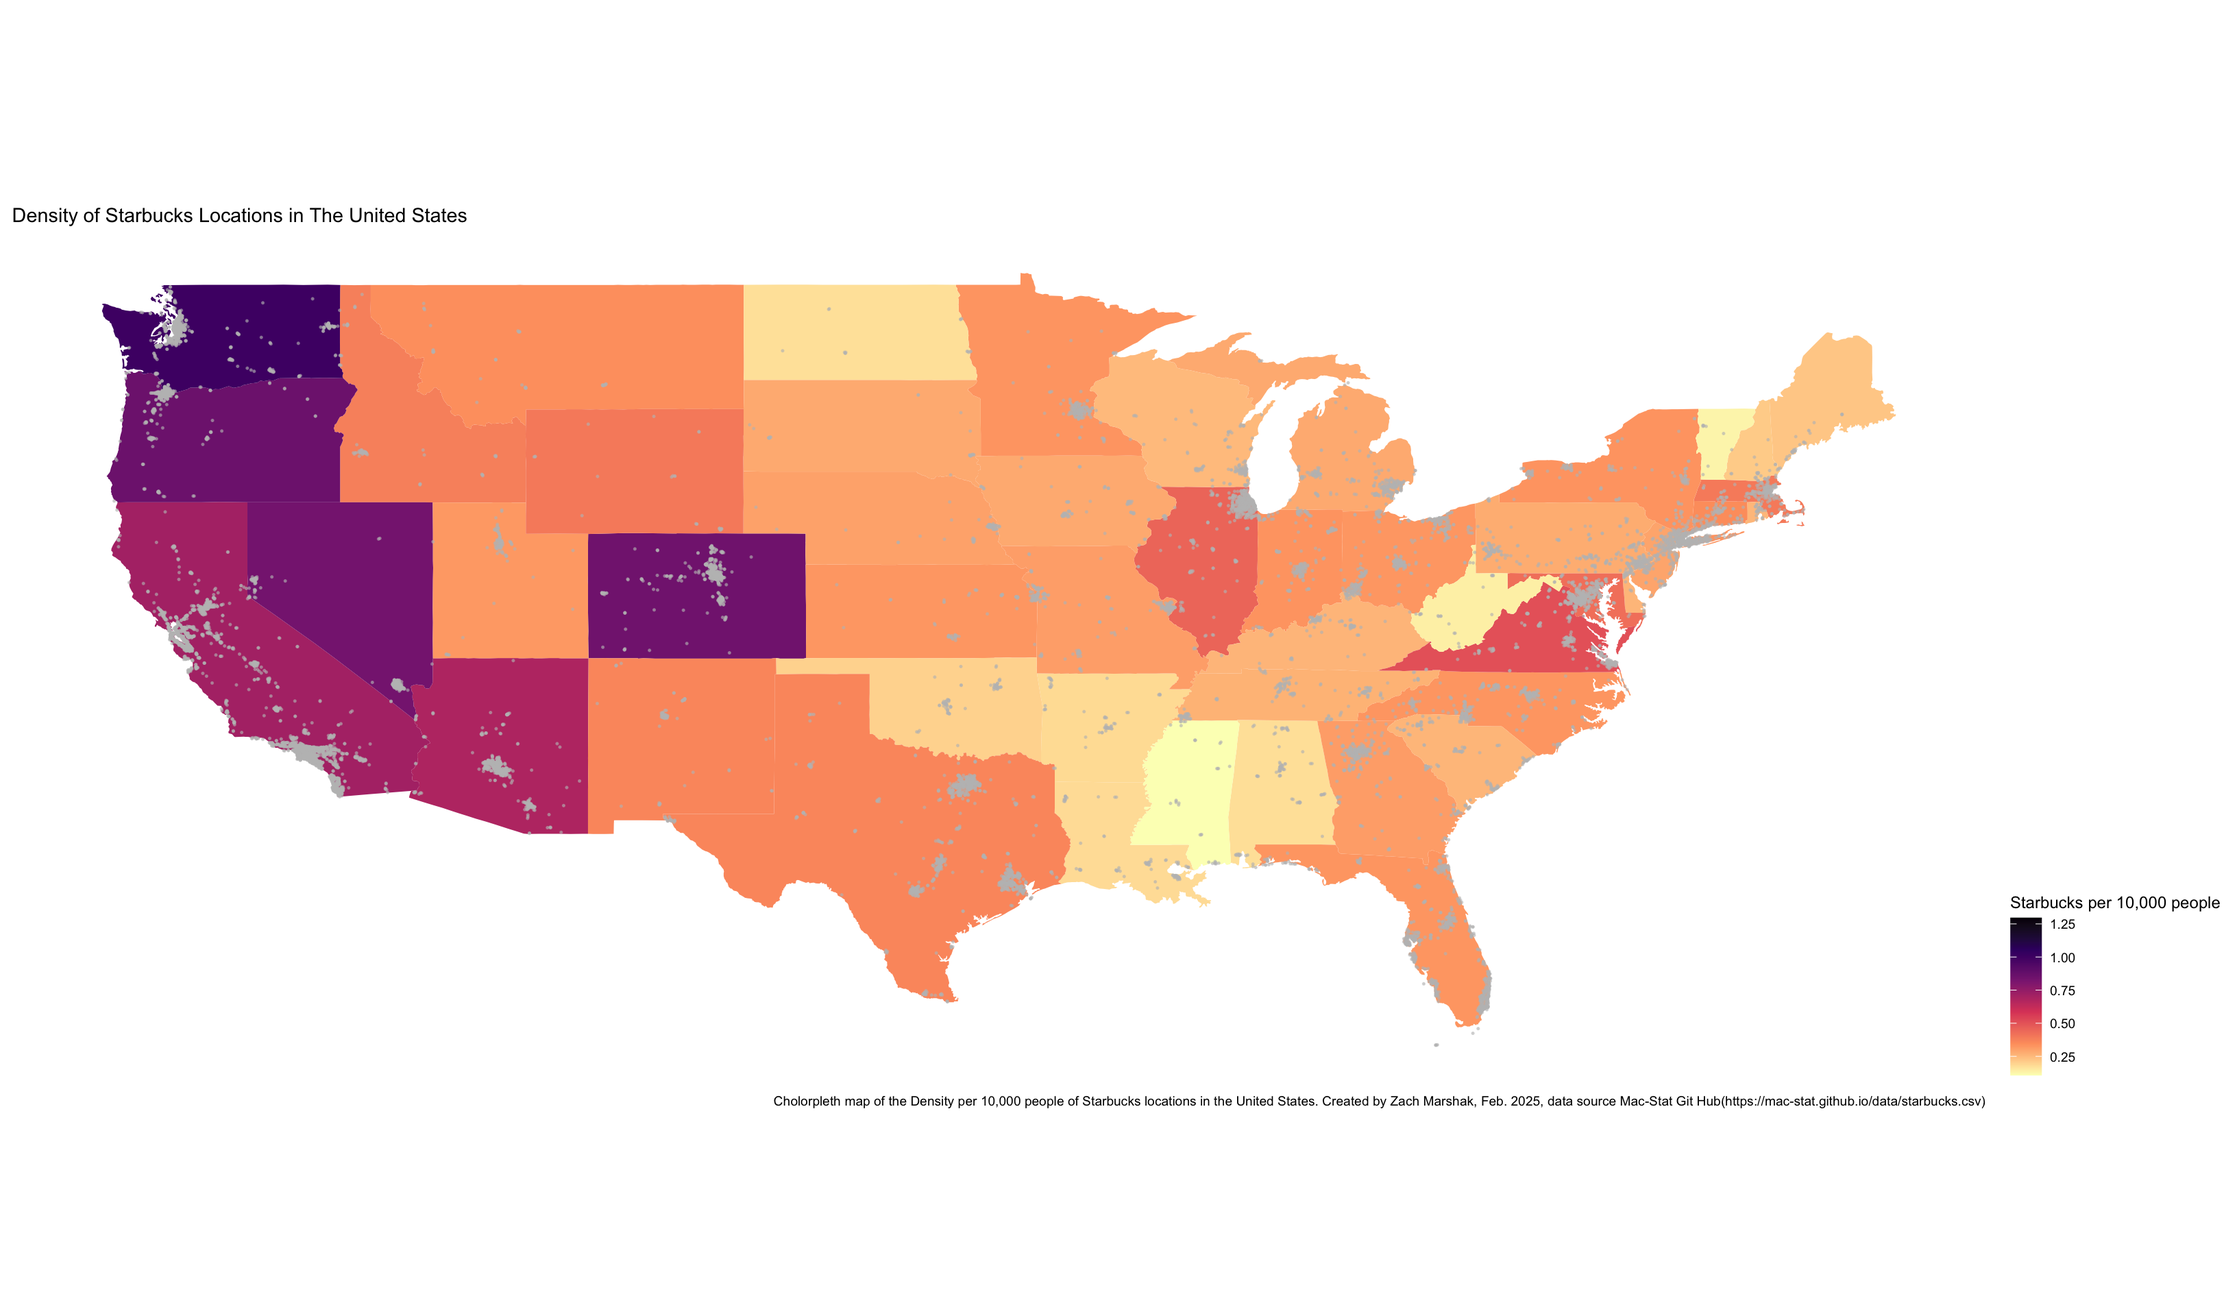
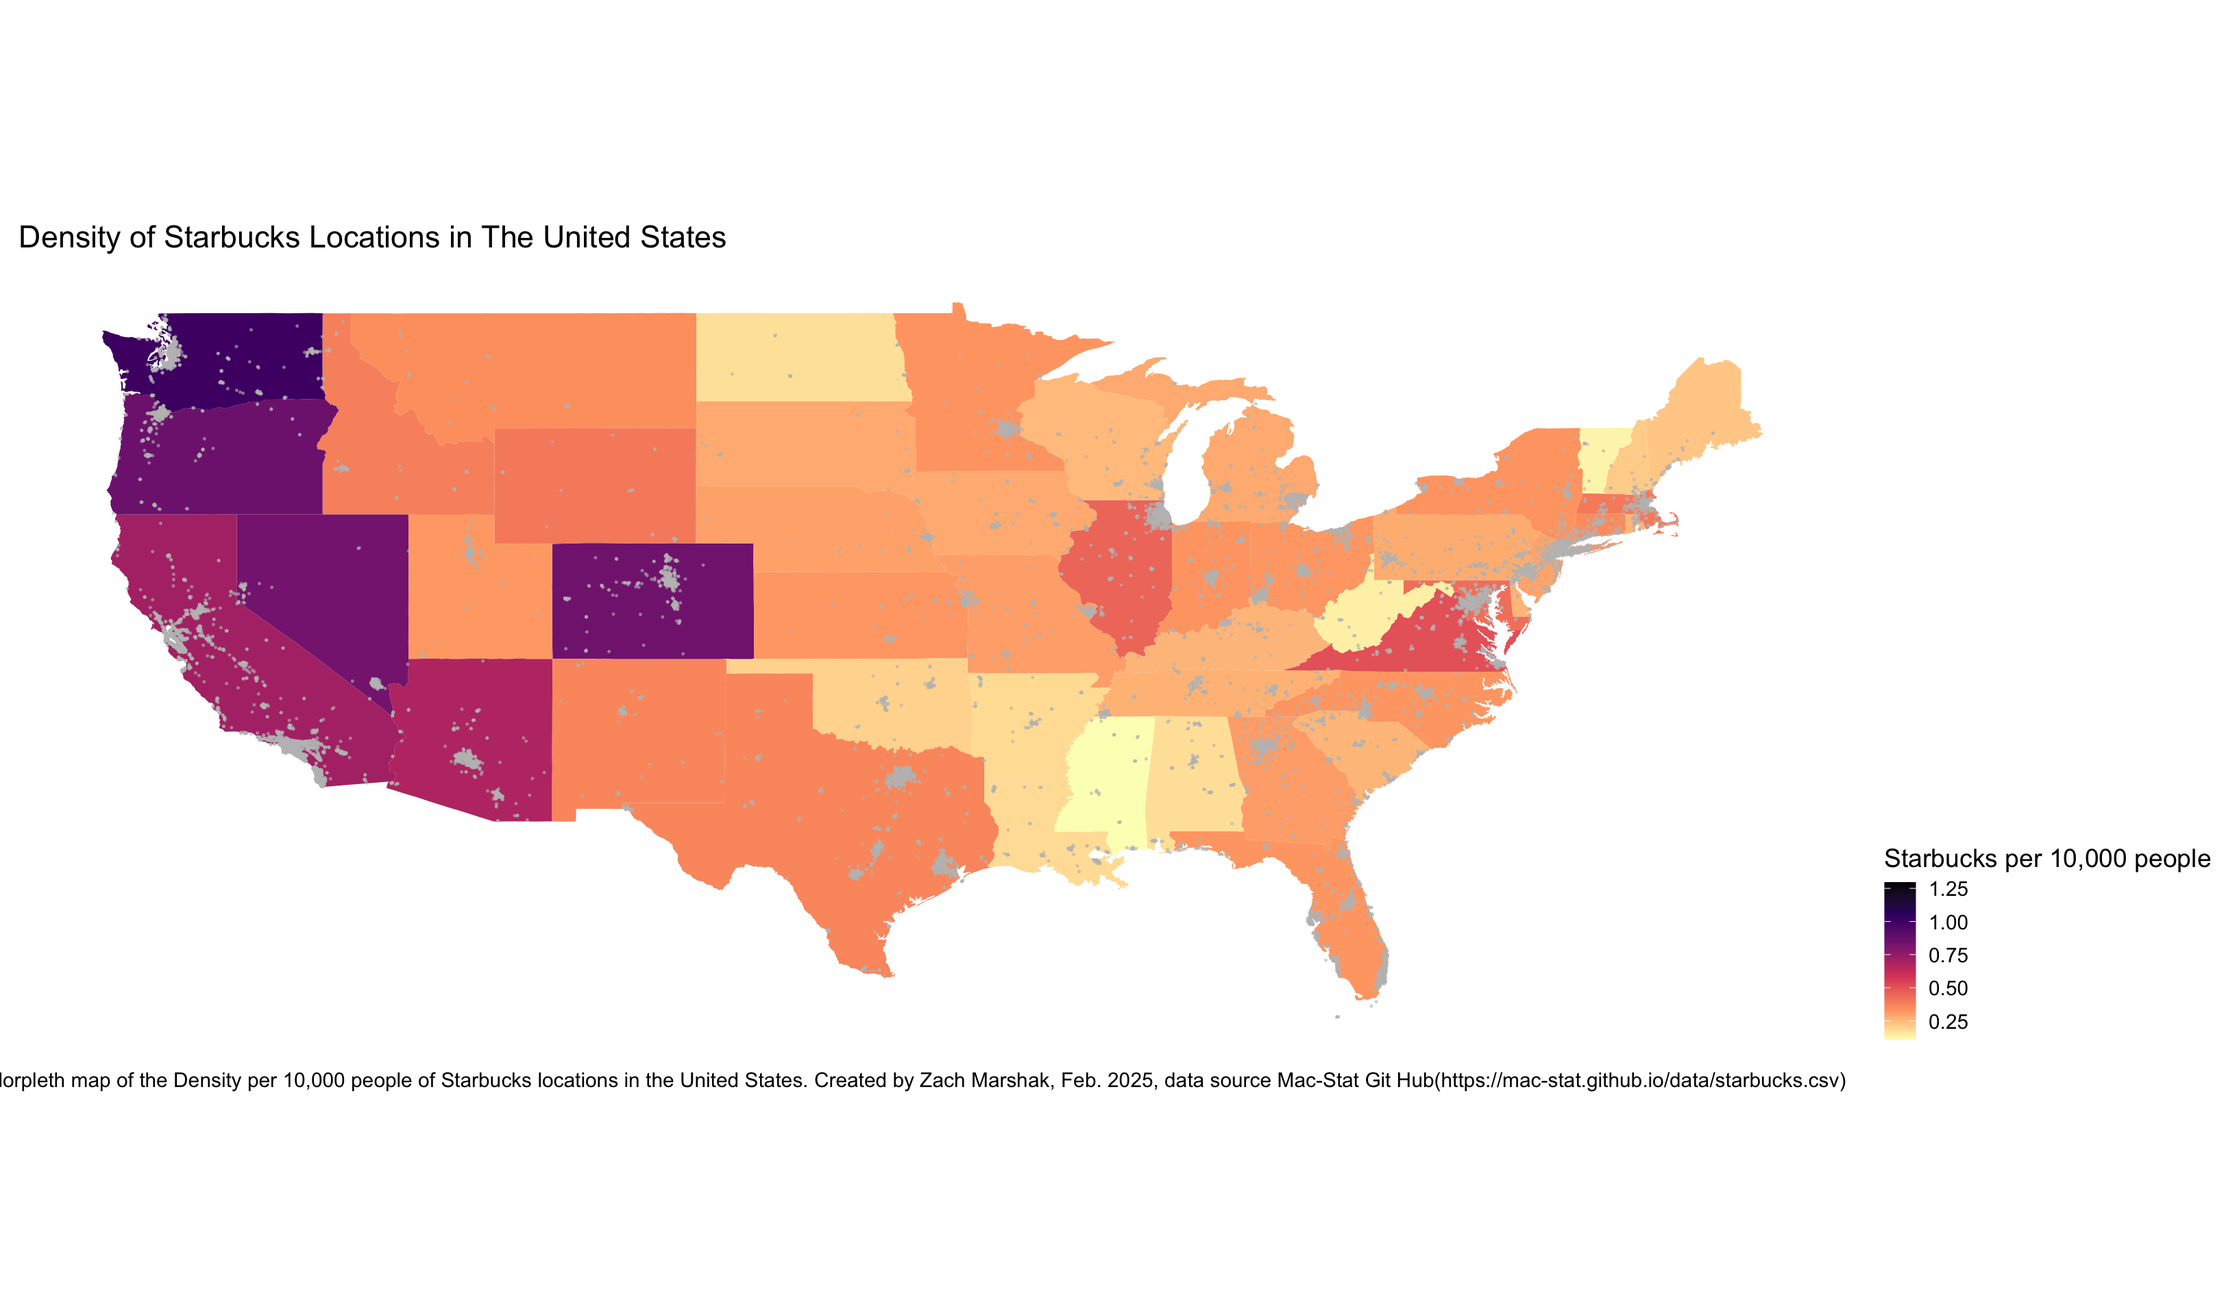
Built site for gh-pages

Changed region(s): [[0.0312, 0.1875, 0.8438, 0.7812], [0.0, 0.625, 0.9688, 0.8438], [0.0, 0.1562, 0.3125, 0.1875]]

diff --git a/bw/bw-quad.html b/bw/bw-quad.html
@@ -347,8 +347,9 @@ pre > code.sourceCode > span > a:first-child::before { text-decoration: underlin
 <details class="code-fold"><summary>Code</summary><div class="sourceCode cell-code" id="cb3"><pre class="sourceCode numberSource r number-lines code-with-copy"><code class="sourceCode r"><span id="cb3-1"><a href="#cb3-1"></a><span class="fu">ggplot</span>(weather, <span class="fu">aes</span>( <span class="at">x=</span> temp9am, <span class="at">y =</span> temp3pm, <span class="at">color =</span> raintoday))<span class="sc">+</span></span>
 <span id="cb3-2"><a href="#cb3-2"></a>  <span class="fu">geom_point</span>(<span class="at">alpha =</span> <span class="fl">0.5</span>)<span class="sc">+</span></span>
 <span id="cb3-3"><a href="#cb3-3"></a>  <span class="fu">scale_color_viridis_d</span>()<span class="sc">+</span></span>
-<span id="cb3-4"><a href="#cb3-4"></a>  <span class="fu">facet_wrap</span>(<span class="sc">~</span> location)<span class="sc">+</span></span>
-<span id="cb3-5"><a href="#cb3-5"></a>  <span class="fu">labs</span>(<span class="at">x =</span> <span class="st">"Temperature 9 am (celcius)"</span>, <span class="at">y =</span> <span class="st">"Temperature 3 pm (celcius)"</span>, <span class="at">color =</span> <span class="st">"Did it Rain?"</span>, <span class="at">title =</span> <span class="st">"Weather Conditions in Australian Cities"</span>, <span class="at">caption =</span> <span class="st">"Scatter plot of Temperatures, and perciptiation in the Australian cities of Hobart, Uluru, and Wollongong. Created by Zach Marshak, Feb. 2025, data source Mac-Stat Git Hub(https://mac-stat.github.io/data/weather_3_locations.csv)"</span> )</span></code><button title="Copy to Clipboard" class="code-copy-button"><i class="bi"></i></button></pre></div>
+<span id="cb3-4"><a href="#cb3-4"></a>  <span class="fu">theme_minimal</span>(<span class="at">base_size =</span> <span class="dv">14</span>)<span class="sc">+</span></span>
+<span id="cb3-5"><a href="#cb3-5"></a>  <span class="fu">facet_wrap</span>(<span class="sc">~</span> location)<span class="sc">+</span></span>
+<span id="cb3-6"><a href="#cb3-6"></a>  <span class="fu">labs</span>(<span class="at">x =</span> <span class="st">"Temperature 9 am (celcius)"</span>, <span class="at">y =</span> <span class="st">"Temperature 3 pm (celcius)"</span>, <span class="at">color =</span> <span class="st">"Did it Rain?"</span>, <span class="at">title =</span> <span class="st">"Weather Conditions in Australian Cities"</span>, <span class="at">caption =</span> <span class="st">"Scatter plot of Temperatures, and perciptiation in the Australian cities of Hobart, Uluru, and Wollongong. Created by Zach Marshak, Feb. 2025, data source Mac-Stat Git Hub(https://mac-stat.github.io/data/weather_3_locations.csv)"</span> )</span></code><button title="Copy to Clipboard" class="code-copy-button"><i class="bi"></i></button></pre></div>
 </details><div class="cell-output-display">
 <div>
 <figure class="figure"><p><img src="bw-quad_files/figure-html/unnamed-chunk-3-1.png" class="img-fluid figure-img" alt="Scatter plot comparing the Temperature in Celcius at 9 am to 3 pm. Dot colors symbolize if there was rain, purple meaning no and yellow meaning yes. The plot is faceted by location, with there being three: Hobart, Wollongon, and Uluru. Uluru has the typically highest temps and the least amount of rain, while Hobart is typically the coldest and Wollongong has typically the most rainy days." width="1344"></p>
@@ -1016,9 +1017,10 @@ window.document.addEventListener("DOMContentLoaded", function (event) {
 <span id="cb4-29"><a href="#cb4-29"></a><span class="fu">ggplot</span>(weather, <span class="fu">aes</span>( <span class="at">x=</span> temp9am, <span class="at">y =</span> temp3pm, <span class="at">color =</span> raintoday))<span class="sc">+</span></span>
 <span id="cb4-30"><a href="#cb4-30"></a>  <span class="fu">geom_point</span>(<span class="at">alpha =</span> <span class="fl">0.5</span>)<span class="sc">+</span></span>
 <span id="cb4-31"><a href="#cb4-31"></a>  <span class="fu">scale_color_viridis_d</span>()<span class="sc">+</span></span>
-<span id="cb4-32"><a href="#cb4-32"></a>  <span class="fu">facet_wrap</span>(<span class="sc">~</span> location)<span class="sc">+</span></span>
-<span id="cb4-33"><a href="#cb4-33"></a>  <span class="fu">labs</span>(<span class="at">x =</span> <span class="st">"Temperature 9 am (celcius)"</span>, <span class="at">y =</span> <span class="st">"Temperature 3 pm (celcius)"</span>, <span class="at">color =</span> <span class="st">"Did it Rain?"</span>, <span class="at">title =</span> <span class="st">"Weather Conditions in Australian Cities"</span>, <span class="at">caption =</span> <span class="st">"Scatter plot of Temperatures, and perciptiation in the Australian cities of Hobart, Uluru, and Wollongong. Created by Zach Marshak, Feb. 2025, data source Mac-Stat Git Hub(https://mac-stat.github.io/data/weather_3_locations.csv)"</span> )</span>
-<span id="cb4-34"><a href="#cb4-34"></a><span class="in">```</span></span>
+<span id="cb4-32"><a href="#cb4-32"></a>  <span class="fu">theme_minimal</span>(<span class="at">base_size =</span> <span class="dv">14</span>)<span class="sc">+</span></span>
+<span id="cb4-33"><a href="#cb4-33"></a>  <span class="fu">facet_wrap</span>(<span class="sc">~</span> location)<span class="sc">+</span></span>
+<span id="cb4-34"><a href="#cb4-34"></a>  <span class="fu">labs</span>(<span class="at">x =</span> <span class="st">"Temperature 9 am (celcius)"</span>, <span class="at">y =</span> <span class="st">"Temperature 3 pm (celcius)"</span>, <span class="at">color =</span> <span class="st">"Did it Rain?"</span>, <span class="at">title =</span> <span class="st">"Weather Conditions in Australian Cities"</span>, <span class="at">caption =</span> <span class="st">"Scatter plot of Temperatures, and perciptiation in the Australian cities of Hobart, Uluru, and Wollongong. Created by Zach Marshak, Feb. 2025, data source Mac-Stat Git Hub(https://mac-stat.github.io/data/weather_3_locations.csv)"</span> )</span>
+<span id="cb4-35"><a href="#cb4-35"></a><span class="in">```</span></span>
 </code><button title="Copy to Clipboard" class="code-copy-button" data-in-quarto-modal=""><i class="bi"></i></button></pre></div>
 </div></div></div></div></div>
 </div> <!-- /content -->

diff --git a/bw/bw-tri.html b/bw/bw-tri.html
@@ -346,7 +346,8 @@ pre > code.sourceCode > span > a:first-child::before { text-decoration: underlin
 <details class="code-fold"><summary>Code</summary><div class="sourceCode cell-code" id="cb3"><pre class="sourceCode numberSource r number-lines code-with-copy"><code class="sourceCode r"><span id="cb3-1"><a href="#cb3-1"></a><span class="fu">ggplot</span>(weather, <span class="fu">aes</span>(<span class="at">x =</span> temp9am, <span class="at">y =</span> temp3pm, <span class="at">color =</span> location))<span class="sc">+</span></span>
 <span id="cb3-2"><a href="#cb3-2"></a>  <span class="fu">geom_point</span>(<span class="at">alpha =</span> <span class="fl">0.5</span>)<span class="sc">+</span></span>
 <span id="cb3-3"><a href="#cb3-3"></a>   <span class="fu">scale_color_viridis_d</span>()<span class="sc">+</span></span>
-<span id="cb3-4"><a href="#cb3-4"></a>  <span class="fu">labs</span>( <span class="at">x =</span> <span class="st">"Temperature at 9 am (celcius)"</span>, <span class="at">y =</span> <span class="st">"Temperature at 3 pm (celcius)"</span>, <span class="at">color =</span> <span class="st">"City"</span>, <span class="at">title =</span> <span class="st">"Temperatures in Australian Cities"</span>, <span class="at">caption =</span> <span class="st">"Scatter plot of morning versus afternoon temperatures in three Australian cities. Created by Zach Marshak, Feb. 2025, data source Mac-Stat Git Hub(https://mac-stat.github.io/data/weather_3_locations.csv)"</span>)</span></code><button title="Copy to Clipboard" class="code-copy-button"><i class="bi"></i></button></pre></div>
+<span id="cb3-4"><a href="#cb3-4"></a>  <span class="fu">theme_minimal</span>(<span class="at">base_size =</span> <span class="dv">14</span>)<span class="sc">+</span></span>
+<span id="cb3-5"><a href="#cb3-5"></a>  <span class="fu">labs</span>( <span class="at">x =</span> <span class="st">"Temperature at 9 am (celcius)"</span>, <span class="at">y =</span> <span class="st">"Temperature at 3 pm (celcius)"</span>, <span class="at">color =</span> <span class="st">"City"</span>, <span class="at">title =</span> <span class="st">"Temperatures in Australian Cities"</span>, <span class="at">caption =</span> <span class="st">"Scatter plot of morning versus afternoon temperatures in three Australian cities. Created by Zach Marshak, Feb. 2025, data source Mac-Stat Git Hub(https://mac-stat.github.io/data/weather_3_locations.csv)"</span>)</span></code><button title="Copy to Clipboard" class="code-copy-button"><i class="bi"></i></button></pre></div>
 </details><div class="cell-output-display">
 <div>
 <figure class="figure"><p><img src="bw-tri_files/figure-html/unnamed-chunk-3-1.png" class="img-fluid figure-img" alt="Scatter plot of temperatures in celcius in three Australian cities. The cities Hobart, Uluru, and Wollongong are each a different colored point, the x axis is temperatures at 9 am and the y axis is temperatures at 3 pm. Uluru has the typically highest temperatures, followed by Wollongong then Hobart" width="1344"></p>
@@ -1013,8 +1014,9 @@ window.document.addEventListener("DOMContentLoaded", function (event) {
 <span id="cb4-28"><a href="#cb4-28"></a><span class="fu">ggplot</span>(weather, <span class="fu">aes</span>(<span class="at">x =</span> temp9am, <span class="at">y =</span> temp3pm, <span class="at">color =</span> location))<span class="sc">+</span></span>
 <span id="cb4-29"><a href="#cb4-29"></a>  <span class="fu">geom_point</span>(<span class="at">alpha =</span> <span class="fl">0.5</span>)<span class="sc">+</span></span>
 <span id="cb4-30"><a href="#cb4-30"></a>   <span class="fu">scale_color_viridis_d</span>()<span class="sc">+</span></span>
-<span id="cb4-31"><a href="#cb4-31"></a>  <span class="fu">labs</span>( <span class="at">x =</span> <span class="st">"Temperature at 9 am (celcius)"</span>, <span class="at">y =</span> <span class="st">"Temperature at 3 pm (celcius)"</span>, <span class="at">color =</span> <span class="st">"City"</span>, <span class="at">title =</span> <span class="st">"Temperatures in Australian Cities"</span>, <span class="at">caption =</span> <span class="st">"Scatter plot of morning versus afternoon temperatures in three Australian cities. Created by Zach Marshak, Feb. 2025, data source Mac-Stat Git Hub(https://mac-stat.github.io/data/weather_3_locations.csv)"</span>)</span>
-<span id="cb4-32"><a href="#cb4-32"></a><span class="in">```</span></span>
+<span id="cb4-31"><a href="#cb4-31"></a>  <span class="fu">theme_minimal</span>(<span class="at">base_size =</span> <span class="dv">14</span>)<span class="sc">+</span></span>
+<span id="cb4-32"><a href="#cb4-32"></a>  <span class="fu">labs</span>( <span class="at">x =</span> <span class="st">"Temperature at 9 am (celcius)"</span>, <span class="at">y =</span> <span class="st">"Temperature at 3 pm (celcius)"</span>, <span class="at">color =</span> <span class="st">"City"</span>, <span class="at">title =</span> <span class="st">"Temperatures in Australian Cities"</span>, <span class="at">caption =</span> <span class="st">"Scatter plot of morning versus afternoon temperatures in three Australian cities. Created by Zach Marshak, Feb. 2025, data source Mac-Stat Git Hub(https://mac-stat.github.io/data/weather_3_locations.csv)"</span>)</span>
+<span id="cb4-33"><a href="#cb4-33"></a><span class="in">```</span></span>
 </code><button title="Copy to Clipboard" class="code-copy-button" data-in-quarto-modal=""><i class="bi"></i></button></pre></div>
 </div></div></div></div></div>
 </div> <!-- /content -->

diff --git a/bw/bw-spatial.html b/bw/bw-spatial.html
@@ -384,7 +384,7 @@ pre > code.sourceCode > span > a:first-child::before { text-decoration: underlin
 <details class="code-fold"><summary>Code</summary><div class="sourceCode cell-code" id="cb7"><pre class="sourceCode numberSource r number-lines code-with-copy"><code class="sourceCode r"><span id="cb7-1"><a href="#cb7-1"></a><span class="fu">ggplot</span>(starbucks_with_2018_pop_est)<span class="sc">+</span></span>
 <span id="cb7-2"><a href="#cb7-2"></a>  <span class="fu">geom_map</span>(<span class="at">map =</span> states_map, <span class="fu">aes</span>(<span class="at">map_id =</span> state_name, <span class="at">fill =</span> starbucks_per_10000))<span class="sc">+</span></span>
 <span id="cb7-3"><a href="#cb7-3"></a>  <span class="fu">expand_limits</span>(<span class="at">x =</span> states_map<span class="sc">$</span>long, <span class="at">y =</span> states_map<span class="sc">$</span>lat) <span class="sc">+</span></span>
-<span id="cb7-4"><a href="#cb7-4"></a>  <span class="fu">theme_map</span>()<span class="sc">+</span></span>
+<span id="cb7-4"><a href="#cb7-4"></a>  <span class="fu">theme_map</span>(<span class="at">base_size =</span> <span class="dv">14</span>)<span class="sc">+</span></span>
 <span id="cb7-5"><a href="#cb7-5"></a>  <span class="fu">theme</span>(<span class="at">legend.position =</span> <span class="st">"right"</span>) <span class="sc">+</span> </span>
 <span id="cb7-6"><a href="#cb7-6"></a>  <span class="fu">coord_equal</span>() <span class="sc">+</span> </span>
 <span id="cb7-7"><a href="#cb7-7"></a>   <span class="fu">scale_fill_viridis_c</span>(<span class="at">option =</span> <span class="st">"magma"</span>, <span class="at">name =</span> <span class="st">"Starbucks per 10,000 people"</span>, <span class="at">direction =</span> <span class="sc">-</span><span class="dv">1</span>) <span class="sc">+</span></span>
@@ -1100,7 +1100,7 @@ window.document.addEventListener("DOMContentLoaded", function (event) {
 <span id="cb8-76"><a href="#cb8-76"></a><span class="fu">ggplot</span>(starbucks_with_2018_pop_est)<span class="sc">+</span></span>
 <span id="cb8-77"><a href="#cb8-77"></a>  <span class="fu">geom_map</span>(<span class="at">map =</span> states_map, <span class="fu">aes</span>(<span class="at">map_id =</span> state_name, <span class="at">fill =</span> starbucks_per_10000))<span class="sc">+</span></span>
 <span id="cb8-78"><a href="#cb8-78"></a>  <span class="fu">expand_limits</span>(<span class="at">x =</span> states_map<span class="sc">$</span>long, <span class="at">y =</span> states_map<span class="sc">$</span>lat) <span class="sc">+</span></span>
-<span id="cb8-79"><a href="#cb8-79"></a>  <span class="fu">theme_map</span>()<span class="sc">+</span></span>
+<span id="cb8-79"><a href="#cb8-79"></a>  <span class="fu">theme_map</span>(<span class="at">base_size =</span> <span class="dv">14</span>)<span class="sc">+</span></span>
 <span id="cb8-80"><a href="#cb8-80"></a>  <span class="fu">theme</span>(<span class="at">legend.position =</span> <span class="st">"right"</span>) <span class="sc">+</span> </span>
 <span id="cb8-81"><a href="#cb8-81"></a>  <span class="fu">coord_equal</span>() <span class="sc">+</span> </span>
 <span id="cb8-82"><a href="#cb8-82"></a>   <span class="fu">scale_fill_viridis_c</span>(<span class="at">option =</span> <span class="st">"magma"</span>, <span class="at">name =</span> <span class="st">"Starbucks per 10,000 people"</span>, <span class="at">direction =</span> <span class="sc">-</span><span class="dv">1</span>) <span class="sc">+</span></span>

diff --git a/bw/Solo_Project.html b/bw/Solo_Project.html
@@ -335,7 +335,7 @@ pre > code.sourceCode > span > a:first-child::before { text-decoration: underlin
   
 
 
-</header><div class="cell">
+</header><div class="cell" data-progress_bar="false">
 <div class="cell-output cell-output-stdout">
 <pre><code>
   |                                                                            
@@ -1341,7 +1341,7 @@ window.document.addEventListener("DOMContentLoaded", function (event) {
 <span id="cb2-12"><a href="#cb2-12"></a><span class="in">library(tidyverse)</span></span>
 <span id="cb2-13"><a href="#cb2-13"></a><span class="in">```</span></span>
 <span id="cb2-14"><a href="#cb2-14"></a></span>
-<span id="cb2-15"><a href="#cb2-15"></a><span class="in">```{r, message=FALSE, echo=FALSE}</span></span>
+<span id="cb2-15"><a href="#cb2-15"></a><span class="in">```{r, message=FALSE, echo=FALSE, progress_bar = FALSE}</span></span>
 <span id="cb2-16"><a href="#cb2-16"></a><span class="in"># get mn counties shapefile</span></span>
 <span id="cb2-17"><a href="#cb2-17"></a><span class="in">MN &lt;- counties(state = "Minnesota")</span></span>
 <span id="cb2-18"><a href="#cb2-18"></a><span class="in">```</span></span>
